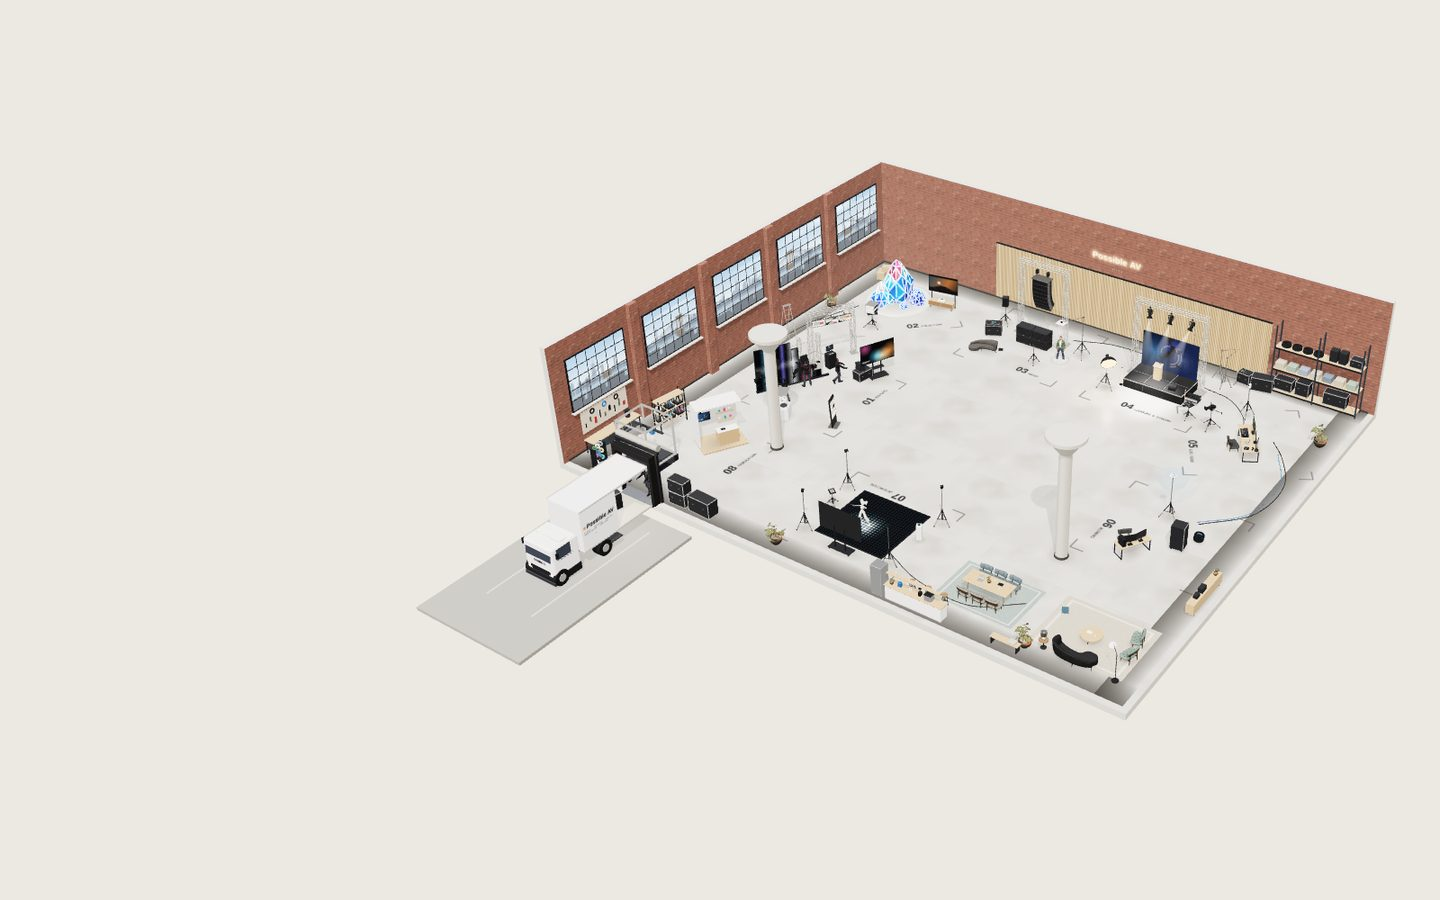
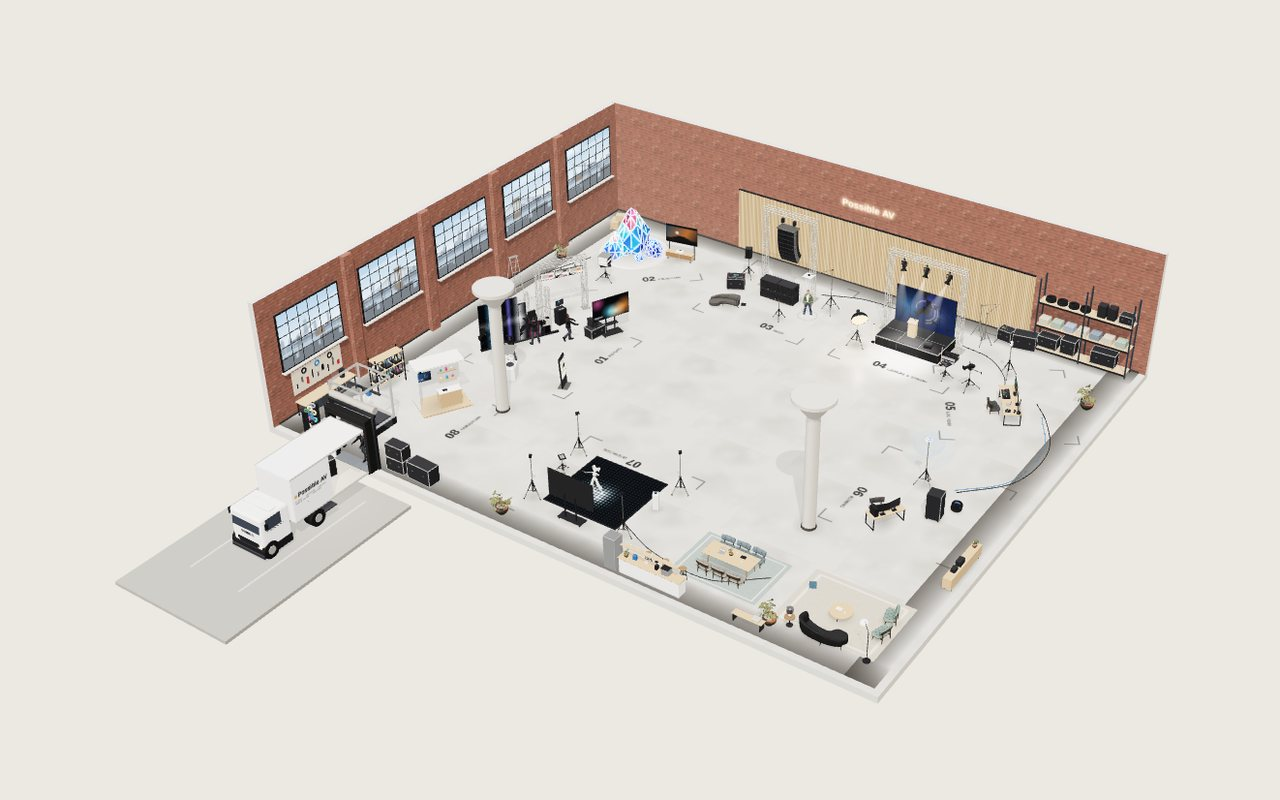
Home lite: centred studio stills, readable buttons on the closing card
Claude-Session: https://claude.ai/code/session_01WLBd7CBkwddsYmtqPUsLWq

Changed region(s): [[0.0938, 0.125, 0.9688, 0.875], [0.8438, 0.2812, 0.9062, 0.3125]]

diff --git a/web/studio.css b/web/studio.css
@@ -222,3 +222,5 @@ html.lite .copy>:nth-child(n+4){animation-delay:.18s}
   html.lite .card[data-i="10"]>:last-child{margin-bottom:0}
   html.lite .card[data-i="10"]::after{order:-1;aspect-ratio:16/10;min-height:0;margin-bottom:18px}
 }
+html.lite .card[data-i="10"] .btn{background:#f2efe9;color:#1d1c1a}
+html.lite .card[data-i="10"] .ghost{background:transparent}
